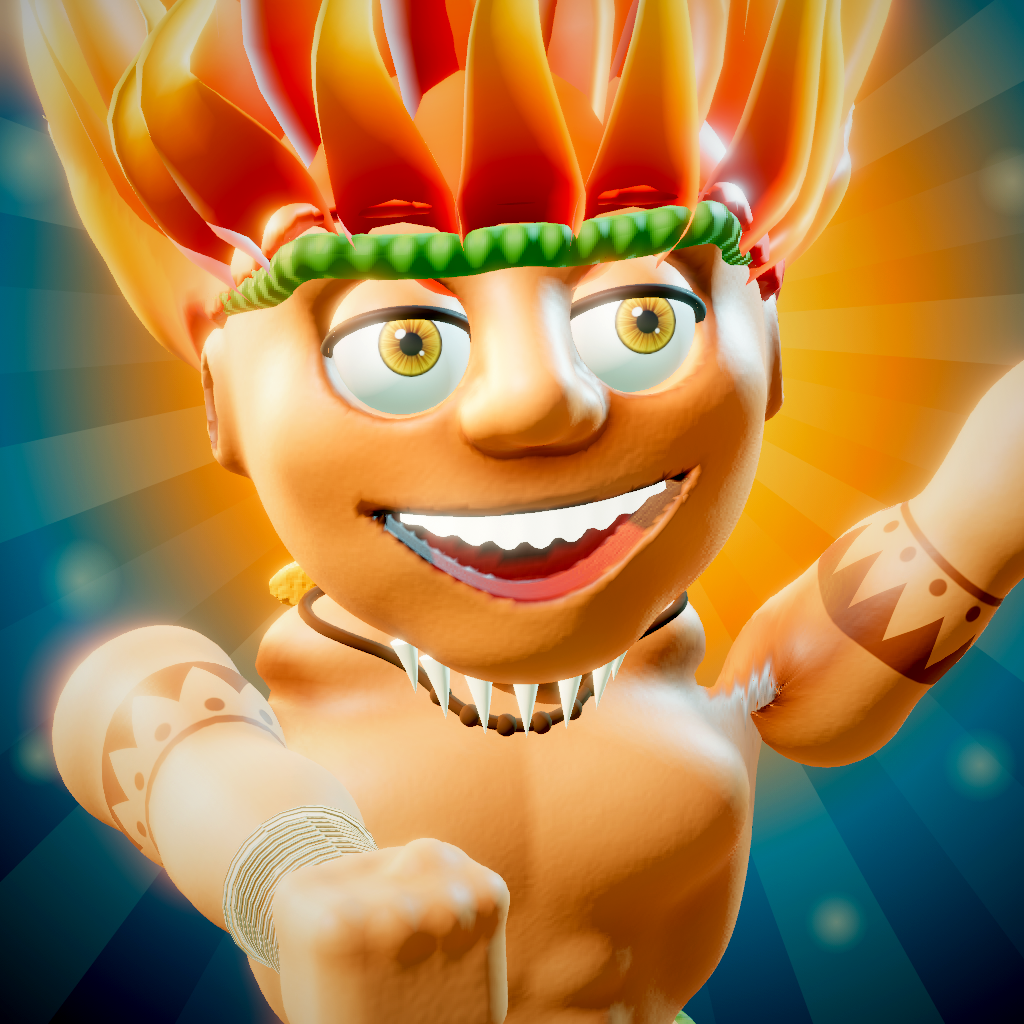
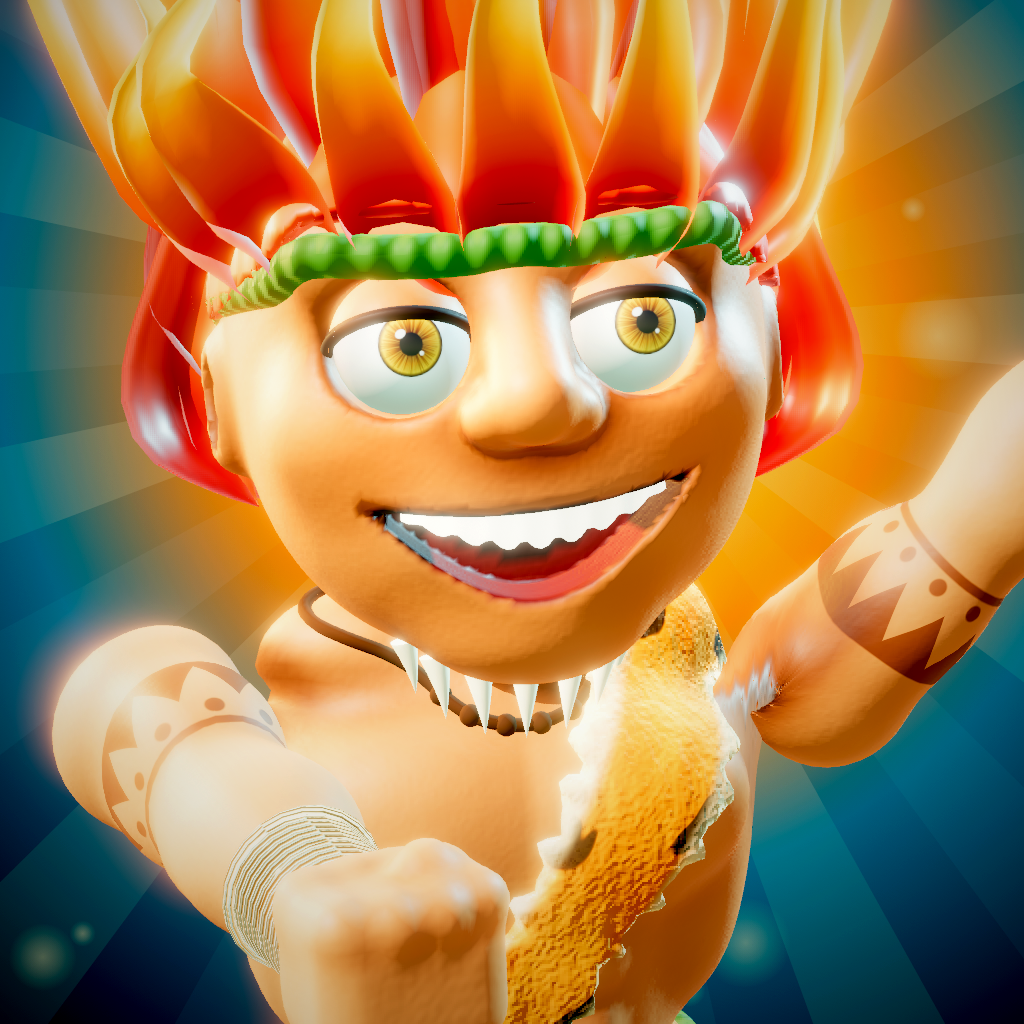
Release-quality back view: swept flame mane, pelt sash, back tattoo, wagging tail
Claude-Session: https://claude.ai/code/session_01U6DtojpPu3Br5W6bvaSbNr

diff --git a/index.html b/index.html
@@ -671,7 +671,7 @@ const glow=new Glow(1400), parts=new Parts(1600);
 
 /* ================= HERO SCULPT CACHE ================= */
 // Gao is sculpted from distance fields on first launch; the finished meshes are kept in IndexedDB so later launches start instantly.
-const HVER='gao-4';
+const HVER='gao-5';
 function heroDB(){return new Promise(res=>{try{const r=indexedDB.open('wildswing3d',1);r.onupgradeneeded=()=>r.result.createObjectStore('c');r.onsuccess=()=>res(r.result);r.onerror=()=>res(null);r.onblocked=()=>res(null)}catch(e){res(null)}})}
 async function heroCacheLoad(){try{const db=await Promise.race([heroDB(),new Promise(r=>setTimeout(()=>r(null),1200))]);if(!db)return null;
   return await new Promise(res=>{try{const q=db.transaction('c','readonly').objectStore('c').get(HVER);q.onsuccess=()=>res(q.result||null);q.onerror=()=>res(null)}catch(e){res(null)}})}catch(e){return null}}
@@ -746,16 +746,16 @@ const hero=(()=>{
  float vn3(vec3 x){vec3 i=floor(x),f=fract(x);f=f*f*(3.-2.*f);return mix(mix(mix(hh3(i),hh3(i+vec3(1,0,0)),f.x),mix(hh3(i+vec3(0,1,0)),hh3(i+vec3(1,1,0)),f.x),f.y),mix(mix(hh3(i+vec3(0,0,1)),hh3(i+vec3(1,0,1)),f.x),mix(hh3(i+vec3(0,1,1)),hh3(i+vec3(1,1,1)),f.x),f.y),f.z);}
  vec3 pnA(vec3 sp,vec3 n,vec2 dh,float fd){vec3 sx=dFdx(sp),sy=dFdy(sp),r1=cross(sy,n),r2=cross(n,sx);float det=dot(sx,r1)*fd;vec3 g=sign(det)*(dh.x*r1+dh.y*r2);return normalize(abs(det)*n-g);}`;
  // Shared hero shading: wrap-lit "subsurface" warmth, a rim light so Gao reads against any sky, optional procedural detail per material
- const heroT={value:0};
+ const heroT={value:0},heroFill={value:.16};
  function heroMat(o,opt={}){const m=new (opt.phys?T3.MeshPhysicalMaterial:T3.MeshStandardMaterial)(o);m.envMapIntensity=opt.env??.6;
   const rim=opt.rim||[1,.8,.6],rs=opt.rs??.45,sss=opt.sss||[0,0,0];
-  m.onBeforeCompile=sh=>{sh.uniforms.rimC={value:new T3.Color(...rim)};sh.uniforms.rimS={value:rs};sh.uniforms.sssC={value:new T3.Color(...sss)};sh.uniforms.glow={value:0};sh.uniforms.uT=heroT;m.userData.sh=sh;
+  m.onBeforeCompile=sh=>{sh.uniforms.rimC={value:new T3.Color(...rim)};sh.uniforms.rimS={value:rs};sh.uniforms.sssC={value:new T3.Color(...sss)};sh.uniforms.glow={value:0};sh.uniforms.uT=heroT;sh.uniforms.fillK=heroFill;m.userData.sh=sh;
    sh.vertexShader=sh.vertexShader.replace('#include <common>','#include <common>\nuniform float uT;varying vec3 vOp;'+(opt.aux?'attribute vec4 aux;varying vec4 vAux;':''))
     .replace('#include <begin_vertex>','#include <begin_vertex>\nvOp=position;'+(opt.aux?'vAux=aux;':'')+(opt.vtx||''));
-   sh.fragmentShader=sh.fragmentShader.replace('#include <common>','#include <common>\nuniform vec3 rimC,sssC;uniform float rimS,glow;varying vec3 vOp;'+(opt.aux?'varying vec4 vAux;':'')+GLN+(opt.fdecl||''))
+   sh.fragmentShader=sh.fragmentShader.replace('#include <common>','#include <common>\nuniform vec3 rimC,sssC;uniform float rimS,glow,fillK;varying vec3 vOp;'+(opt.aux?'varying vec4 vAux;':'')+GLN+(opt.fdecl||''))
     .replace('#include <color_fragment>','#include <color_fragment>\n'+(opt.frag||''))
     .replace('#include <normal_fragment_maps>','#include <normal_fragment_maps>\n'+(opt.nrm||''))
-    .replace('#include <emissivemap_fragment>','#include <emissivemap_fragment>\n{vec3 V=normalize(vViewPosition);float ndv=clamp(dot(normal,V),0.,1.);float rimF=pow(1.-ndv,3.);totalEmissiveRadiance+=rimC*rimF*rimS*diffuseColor.rgb+sssC*diffuseColor.rgb*(.35+.65*pow(1.-ndv,1.5));}'+(opt.emi||''))};
+    .replace('#include <emissivemap_fragment>','#include <emissivemap_fragment>\n{vec3 V=normalize(vViewPosition);float ndv=clamp(dot(normal,V),0.,1.);float rimF=pow(1.-ndv,3.);totalEmissiveRadiance+=rimC*rimF*rimS*diffuseColor.rgb+sssC*diffuseColor.rgb*(.35+.65*pow(1.-ndv,1.5))+diffuseColor.rgb*fillK*vec3(1.,.93,.85)*(.25+.75*ndv*ndv);}'+(opt.emi||''))};
   m.customProgramCacheKey=()=>'hero'+(opt.key||'');return m}
 
  // ---------- skeleton (same joints the animation code drives) ----------
@@ -856,7 +856,12 @@ const hero=(()=>{
    float l1=1.-smoothstep(.007,.007+aa,abs(v+.185)),l2=1.-smoothstep(.005,.005+aa,abs(v+.34));float fu=fract(u*10.);
    float tri=smoothstep(-.2-.085*(1.-2.*abs(fu-.5))-aa,-.2-.085*(1.-2.*abs(fu-.5)),v)*step(v,-.19);
    float dots=1.-smoothstep(.011,.011+aa,length(vec2((fract(u*10.+.5)-.5)*.075,v+.312)));return clamp(l1+l2+tri+dots,0.,1.)*smoothstep(.6,1.,a.w);}`,
-  frag:`{float t=tat(vAux);diffuseColor.rgb=mix(diffuseColor.rgb,diffuseColor.rgb*vec3(.28,.2,.18),t*.92);}`,
+  frag:`{float t=tat(vAux);
+   if(vOp.z<-.12&&abs(vOp.x)<.3){vec2 q=vec2(vOp.x,(vOp.y-.64)*1.08);float r=length(q),an=atan(q.x,q.y),aa=.004;float k=abs(fract(an/6.2831853*9.+.5)-.5)*2.;
+    float ray=smoothstep(.085-aa,.085,r)*(1.-smoothstep(.085+.13*(1.-k)*(1.-k)-aa,.085+.13*(1.-k)*(1.-k),r));float ring=1.-smoothstep(.009,.009+aa,abs(r-.062));float dot0=1.-smoothstep(.028,.028+aa,r);
+    float fl=0.;{vec2 f=vec2(abs(q.x),q.y+.21);fl=(1.-smoothstep(.0,aa,abs(f.x-.04*sin(f.y*20.))-.012*(1.-f.y*4.)))*step(0.,f.y)*step(f.y,.2);}
+    t=max(t,clamp(ray+ring+dot0+fl*0.,0.,1.)*smoothstep(-.12,-.18,vOp.z));}
+   diffuseColor.rgb=mix(diffuseColor.rgb,diffuseColor.rgb*vec3(.28,.2,.18),t*.92);}`,
   nrm:`{float n1=vn3(vOp*140.),n2=vn3(vOp*38.);vec2 dh=vec2(dFdx(n1*.00022+n2*.0006),dFdy(n1*.00022+n2*.0006));normal=pnA(-vViewPosition,normal,dh,faceDirection);}`};
  const skin=heroMat({color:0xffffff,vertexColors:true,roughness:.55,metalness:0},skinOpt);
  const skinRigid=heroMat({color:0xffffff,vertexColors:true,roughness:.52,metalness:0},Object.assign({},skinOpt,{aux:false,key:'skinR',fdecl:'',frag:''}));
@@ -864,7 +869,10 @@ const hero=(()=>{
   fdecl:`vec3 pelt(vec3 p){float n=vn3(p*6.)*.7+vn3(p*17.)*.3;float s=sin(p.y*17.+n*1.7+sin(p.x*4.)*1.1+abs(p.x)*4.);float side=smoothstep(.04,.36,abs(p.x)+.12*n);
    float st=smoothstep(.62,.74,s-(1.-side)*.8+.1*vn3(p*31.));
    vec3 base=mix(vec3(.93,.42,.07),vec3(.99,.6,.18),vn3(p*9.)*.8);base=mix(base,vec3(.98,.84,.62),smoothstep(.62,.95,vn3(p*2.5+7.))*.25);return pow(mix(base,vec3(.1,.05,.03),st),vec3(2.2));}`,
-  frag:cape?``:`diffuseColor.rgb=pelt(vOp*vec3(1.,1.,1.))*(.55+.45*vColor.r);`,
+  frag:cape?``:`{vec3 p=vOp;float n=vn3(p*7.)*.7+vn3(p*19.)*.3;float an=atan(p.x,p.z+.02);
+   float s=sin(an*8.+p.y*5.+n*1.6+sin(p.y*9.)*.35);float w=.16+.1*vn3(p*4.+3.);float st=smoothstep(1.-w,1.-w+.06,s)*smoothstep(-.62,-.1,p.y*1.2+.1*n)+smoothstep(.72,.8,sin(an*8.+p.y*5.+2.1+n*1.4))*.0;
+   vec3 base=mix(vec3(.93,.42,.07),vec3(.99,.6,.18),vn3(p*9.)*.8);base=mix(base,vec3(.98,.84,.62),smoothstep(.62,.95,vn3(p*2.5+7.))*.22);
+   diffuseColor.rgb=pow(mix(base,vec3(.1,.05,.03),st),vec3(2.2))*(.55+.45*vColor.r);}`,
   nrm:`{float f=vn3(vOp*vec3(60.,18.,60.))*.6+vn3(vOp*150.)*.4;vec2 dh=vec2(dFdx(f),dFdy(f))*.006;normal=pnA(-vViewPosition,normal,dh,faceDirection);}`});
  const shortsM=heroMat({color:0xffffff,vertexColors:true,roughness:.9,sheen:.5,sheenRoughness:.5,sheenColor:new T3.Color(1,.55,.2)},Object.assign(peltOpt('shorts'),{phys:true}));
  const bone=heroMat({color:0xf3e6c8,roughness:.32,metalness:0,clearcoat:.4},{phys:true,rim:[1,.95,.85],rs:.3,sss:[.18,.14,.08],key:'bone'});
@@ -937,16 +945,17 @@ const hero=(()=>{
  // ---------- flame mane ----------
  const hairM=heroMat({vertexColors:true,roughness:.42,metalness:0,emissive:0xffffff,emissiveIntensity:.35},{rim:[1,.7,.3],rs:.5,sss:[.3,.08,0],env:.5,key:'hair',
   // flames never sit still: the further from the skull, the more the tongues sway and lick upward
+  nrm:`{float f=sin(atan(vOp.x,vOp.z+.03)*36.+vOp.y*2.5)*.6+vn3(vOp*vec3(40.,8.,40.))*.4;vec2 dh=vec2(dFdx(f),dFdy(f))*.0028;normal=pnA(-vViewPosition,normal,dh,faceDirection);}`,
   vtx:`{float hg=max(0.,length(position-vec3(0.,.05,-.03))-.48);transformed+=vec3(sin(uT*6.+position.y*5.+position.x*3.),.6*sin(uT*7.3+position.z*4.+position.x*2.),cos(uT*5.2+position.y*4.+position.z*3.))*.04*hg;}`,
   emi:`totalEmissiveRadiance+=diffuseColor.rgb*diffuseColor.rgb*diffuseColor.g*emissive.r*.85-emissive;`});
  const HC=[[.5,.08,.02],[.86,.2,.03],[1,.45,.06],[1,.68,.16],[1,.9,.5]].map(lin);
  const hcol=t=>{const x=Math.min(3.999,t*4),i=x|0,f=x-i;return HC[i].map((c,k)=>c+(HC[i+1][k]-c)*f)};
- function clump(pts,r0,flat=.5,segs=18,rad=10,twist=0,cm=1){const cv=new T3.CatmullRomCurve3(pts.map(p=>new V3(...p)),false,'centripetal');const fr=cv.computeFrenetFrames(segs,false);
+ function clump(pts,r0,flat=.5,segs=18,rad=10,twist=0,cm=1,ge=.85,tin=0){const cv=new T3.CatmullRomCurve3(pts.map(p=>new V3(...p)),false,'centripetal');const fr=cv.computeFrenetFrames(segs,false);
   const pos=[],col=[],idx=[];const up=new V3(),side=new V3(),T=new V3();
   for(let i=0;i<=segs;i++){const t=i/segs,P=cv.getPointAt(t);cv.getTangentAt(t,T);
    // width axis = perpendicular to the strand and to the head centre direction, so clumps lie flat like locks of hair
    side.copy(P).normalize().cross(T).normalize();up.crossVectors(T,side).normalize();
-   const r=r0*(t<.18?.75+t/.18*.25:Math.pow((1-t)/.82,1.15))+.0015,c=hcol(Math.pow(t,.85)*cm);
+   const r=r0*(t<.18?.75+t/.18*.25:Math.pow((1-t)/.82,1.15))*(tin?Math.min(1,Math.pow(t/tin,.7)):1)+.0015,c=hcol(Math.pow(t,ge)*cm);
    for(let j=0;j<=rad;j++){const a=j/rad*TAU+twist*t;const cw=Math.cos(a)*r,ch=Math.sin(a)*r*flat;pos.push(P.x+side.x*cw+up.x*ch,P.y+side.y*cw+up.y*ch,P.z+side.z*cw+up.z*ch);col.push(...c)}}
   for(let i=0;i<segs;i++)for(let j=0;j<rad;j++){const a=i*(rad+1)+j,b=a+rad+1;idx.push(a,b,a+1,b,b+1,a+1)}
   const g=new T3.BufferGeometry();g.setAttribute('position',new T3.Float32BufferAttribute(pos,3));g.setAttribute('color',new T3.Float32BufferAttribute(col,3));g.setIndex(idx);g.computeVertexNormals();return g}
@@ -967,12 +976,6 @@ const hero=(()=>{
    rec.push(a.x,a.y,a.z,ax.x,ax.y,ax.z,w.x,w.y,w.z,t.x,t.y,t.z,L,r0,r1)}
   const c=p0.clone().add(p1).add(p2).multiplyScalar(1/3);const R=Math.max(c.distanceTo(p0),c.distanceTo(p2))+rb+.05;const l1=p0.distanceTo(p1),l2=p1.distanceTo(p2);
   rec.push(c.x,c.y,c.z,R,l1/(l1+l2),flat);SPK.push(rec)};
- // the back of the mane is a torch: layered tongues that rise up and lean back, flaring out at the sides
- for(let k=0;k<6;k++){const u=k/5-.5;spike(Math.PI+u*2.2,.78,1.12-Math.abs(u)*.25,.19,1.2,.65,.35*u,.12)}
- for(let k=0;k<7;k++){const u=k/6-.5;spike(Math.PI+u*3.,.4,1.0-Math.abs(u)*.22,.2,1.0,.72,.6*u,.25)}
- for(let k=0;k<5;k++){const u=k/4-.5;spike(Math.PI+u*2.3,.02,.78-Math.abs(u)*.1,.18,.65,.8,.55*u,.45)}
- for(const s of [-1,1])for(const [el,l] of [[.5,.8],[.15,.62]])spike(s*(Math.PI/2+.35),el,l,.15,.95,.55,.55)
- for(let k=0;k<4;k++){const u=k/3-.5;spike(Math.PI+u*1.5,-.32,.5,.15,.5,.8,.5*u,.5)}
  // front of the mane (crown, top and bangs): tapered flame locks, which read best face-on and in the icon
  {const locks=[];
   for(let k=0;k<7;k++){const u=(k/6-.5);locks.push({az:u*1.5,el:1.05-Math.abs(u)*.4,len:.95-Math.abs(u)*.35,r:.13,flat:.45,up:1.25,back:.8})}
@@ -986,6 +989,25 @@ const hero=(()=>{
    const d2=dir.clone().addScaledVector(upv,.35).addScaledVector(back,.25).normalize();
    const p3=p2.clone().addScaledVector(d2,len*.3).add(new V3(-wob*1.4,0,0)),p4=p3.clone().addScaledVector(d2,len*.22).add(new V3(wob*.8,.06*len,-.04*len));
    add(clump([[p0.x,p0.y,p0.z],[p1.x,p1.y,p1.z],[p2.x,p2.y,p2.z],[p3.x,p3.y,p3.z],[p4.x,p4.y,p4.z]],L.r*(.9+hr()*.2),L.flat,20,10,(hr()-.5)*1.2),hairM,hair)}}
+ // back of the mane: tall layered flame tongues that leave the skull, sweep back, then lick straight up
+ function tongue(az,el,len,r,spread,curl,cm=1){const dx=Math.sin(az)*Math.cos(el),dy=Math.sin(el),dz=Math.cos(az)*Math.cos(el);const n=new V3(dx,dy,dz);
+  const out=new V3(dx,0,dz).normalize(),up=new V3(0,1,0),bk=new V3(0,0,-1);const p0=scalp(dx,dy,dz).multiplyScalar(.97);
+  const p1=p0.clone().addScaledVector(n,.1).addScaledVector(out,spread*.04);
+  const p2=p1.clone().addScaledVector(n.clone().multiplyScalar(.45).addScaledVector(bk,.55).addScaledVector(up,.3).addScaledVector(out,spread*.4).normalize(),len*.26);
+  const p3=p2.clone().addScaledVector(up.clone().addScaledVector(bk,.32).addScaledVector(out,spread*.3).normalize(),len*.32);
+  const p4=p3.clone().addScaledVector(up.clone().addScaledVector(bk,.08-curl).addScaledVector(out,spread*.14).normalize(),len*.26);
+  const p5=p4.clone().addScaledVector(up.clone().multiplyScalar(.8).addScaledVector(bk,-curl*1.6).addScaledVector(out,spread*.05).normalize(),len*.16);
+  add(clump([p0,p1,p2,p3,p4,p5].map(p=>[p.x,p.y,p.z]),r,.36,26,12,(hr()-.5)*.5,cm),hairM,hair)}
+ // swept-up locks: they start low on the back of the skull, hug it on the way up (so the back of the head is all hair), then leave it and rise as flames
+ function sweep(az,e0,e1,rise,r,spread,curl,cm=1,lift=1){const pts=[];const at=e=>{const dx=Math.sin(az)*Math.cos(e),dy=Math.sin(e),dz=Math.cos(az)*Math.cos(e);return scalp(dx,dy,dz).addScaledVector(new V3(dx,dy,dz),lift*(.035+.07*Math.max(0,(e-e0)/(e1-e0+1e-3))))};
+  for(let k=0;k<4;k++)pts.push(at(e0+(e1-e0)*k/3));const top=pts[3],n=top.clone().normalize(),out=new V3(Math.sin(az),0,Math.cos(az)).normalize(),up=new V3(0,1,0),bk=new V3(0,0,-1);
+  const q1=top.clone().addScaledVector(n.clone().multiplyScalar(.5).add(up).addScaledVector(bk,.35).addScaledVector(out,spread*.25).normalize(),rise*.36);
+  const q2=q1.clone().addScaledVector(up.clone().addScaledVector(bk,.12-curl*.5).addScaledVector(out,spread*.14).normalize(),rise*.34);
+  const q3=q2.clone().addScaledVector(up.clone().multiplyScalar(.8).addScaledVector(bk,-curl*1.4).addScaledVector(out,spread*.05).normalize(),rise*.3);
+  pts.push(q1,q2,q3);add(clump(pts.map(p=>[p.x,p.y,p.z]),r,.46,30,12,(hr()-.5)*.35,cm,1.7,.14),hairM,hair)}
+ for(const [e0,e1,n,span,rise,r,off] of [[-.5,.72,7,3.0,.62,.17,0],[-.05,.95,6,2.4,.86,.19,.5],[.4,1.18,4,1.5,.98,.19,0]])
+  for(let k=0;k<n;k++){const u=(k+(k<n-1?off:0))/(n-1)-.5;sweep(Math.PI+u*span,e0+(hr()-.5)*.05-(k%2)*.07,e1+(hr()-.5)*.08,rise*(1-Math.abs(u)*.45)*(.9+hr()*.2),r*(1-Math.abs(u)*.2),u*1.6,.06+hr()*.12,.97,k%2?1.35:1)}
+ for(const s2 of [-1,1])for(const [el,len] of [[.5,.7],[.12,.55]])tongue(s2*(Math.PI/2+.45),el,len,.15,s2*.8,.1,.95);
  const NS=SPK.length,STR=36,ST=new Float64Array(NS*STR);SPK.forEach((r,i)=>ST.set(r,i*STR));
  const segD=(x,y,z,o,Kf)=>{const qx=x-ST[o],qy=y-ST[o+1],qz=z-ST[o+2];const X=qx*ST[o+3]+qy*ST[o+4]+qz*ST[o+5],Y=qx*ST[o+6]+qy*ST[o+7]+qz*ST[o+8],Z=(qx*ST[o+9]+qy*ST[o+10]+qz*ST[o+11])*Kf;
   return rcone(X,Y,Z,0,0,0,ST[o+12],0,0,ST[o+13],ST[o+14])/Kf};
@@ -1047,7 +1069,7 @@ const hero=(()=>{
    diffuseColor.rgb=gl_FrontFacing?c*.4+vec3(.05,.03,.015):c;}`}));
  capeM.onBeforeCompile=(f=>sh=>{f(sh);sh.vertexShader=sh.vertexShader.replace('#include <common>','#include <common>\nvarying vec2 vUv2;').replace('#include <begin_vertex>','#include <begin_vertex>\nvUv2=uv;');
   sh.fragmentShader=sh.fragmentShader.replace('#include <common>','#include <common>\nvarying vec2 vUv2;')})(capeM.onBeforeCompile);
- const cape=new T3.Mesh(capeGeo,capeM);cape.castShadow=true;cape.frustumCulled=false;const capeP=new T3.Group();capeP.position.set(0,.98,-.3);capeP.add(cape);body.add(capeP);
+ const cape=new T3.Mesh(capeGeo,capeM);cape.visible=false;cape.castShadow=true;cape.frustumCulled=false;const capeP=new T3.Group();capeP.position.set(0,.98,-.3);capeP.add(cape);body.add(capeP);
  // ---------- tiger tail: a furred, striped tube rebuilt every frame so it sways and streams in the wind ----------
  const TS=26,TR=10,tailG=new T3.BufferGeometry(),tPos=new Float32Array((TS+1)*(TR+1)*3),tCol=new Float32Array((TS+1)*(TR+1)*3),tIdx=[];
  for(let i=0;i<=TS;i++){const t=i/TS;const stripe=(t>.08&&(t*7.5)%1<.34)||t>.9;const c=stripe?lin([.12,.06,.03]):t<.1?lin([.9,.5,.14]):lin([.97,.52,.12]);for(let j=0;j<=TR;j++){const o=(i*(TR+1)+j)*3;tCol[o]=c[0];tCol[o+1]=c[1];tCol[o+2]=c[2]}}
@@ -1058,10 +1080,12 @@ const hero=(()=>{
  const tail=new T3.Mesh(tailG,tailM);tail.castShadow=true;tail.frustumCulled=false;body.add(tail);
  const TA=onSurf(shortsF,0,.02,0,0,0,-1,-.02);const tp=[],tb=new V3(),tn=new V3(),tt=new V3();for(let i=0;i<=TS;i++)tp.push(new V3());
  function tailUpdate(time,spd,air){const lift=Math.min(1,spd/28);
-  for(let i=0;i<=TS;i++){const s=i/TS,L=.95*s;const sw=Math.sin(time*3.1-s*2.6)*(.1+.1*s)*s;
-   tp[i].set(TA.x+sw,TA.y-L*(.62-.45*lift)+s*s*s*(.42+.2*lift)+Math.sin(time*2.3-s*3)*.03*s,TA.z-L*(.45+.45*lift)-s*s*.12)}
+  // S-curve: out and down from the pelt, then curling up; it wags slowly side to side and streams back with speed
+  const wag=Math.sin(time*1.15)*.85+Math.sin(time*2.9)*.15;
+  for(let i=0;i<=TS;i++){const s=i/TS,rip=Math.sin(time*3.4-s*3.2)*.07*s;
+   tp[i].set(TA.x+wag*(.3*Math.pow(s,1.4))+rip,TA.y-.66*s+(.66+.3*lift)*Math.pow(s,2.6)+Math.sin(time*2.3-s*3)*.03*s,TA.z-(.18+.55*lift)*s-.1*s*s)}
   for(let i=0;i<=TS;i++){const a=tp[Math.max(0,i-1)],b=tp[Math.min(TS,i+1)];tt.subVectors(b,a).normalize();tb.set(1,0,0).addScaledVector(tt,-tt.x).normalize();tn.crossVectors(tt,tb);
-   const s=i/TS,r=(.052-.03*s)*(s>.9?1+(s-.9)*4:1)*(i===TS?.2:1);
+   const s=i/TS,r=(.074-.036*s)*(s>.86?1+(s-.86)*3.2:1)*(i===TS?.25:1);
    for(let j=0;j<=TR;j++){const an=j/TR*TAU,cx=Math.cos(an)*r,cy=Math.sin(an)*r,o=(i*(TR+1)+j)*3;tPos[o]=tp[i].x+tb.x*cx+tn.x*cy;tPos[o+1]=tp[i].y+tb.y*cx+tn.y*cy;tPos[o+2]=tp[i].z+tb.z*cx+tn.z*cy}}
   tailG.attributes.position.needsUpdate=true;tailG.computeVertexNormals()}
  tailUpdate(0,0,false);
@@ -1071,11 +1095,18 @@ const hero=(()=>{
    pa.setXYZ(i,x*(1+t*.16),y+t*up,x*x*.75*(1-t*.5)-Math.pow(t,1.2)*fl+.03*Math.sin(x*17+1.3)*t*calm+Math.sin(time*11+t*5+x*3)*.07*t*(.4+spd*.03))}
   pa.needsUpdate=true;if((capeN++&3)===0)capeGeo.computeVertexNormals()}
  capeUpdate(0,0);
- // fur mantle over the shoulders where the cape hangs
- {const fm=heroMat({color:0xffffff,vertexColors:true,roughness:.9,sheen:.5,sheenRoughness:.5,sheenColor:new T3.Color(1,.55,.2)},Object.assign(peltOpt('mantle'),{phys:true}));
-  const f=(x,y,z)=>{const r=Math.hypot(x/1.28,z+.05)-.29;return Math.max(Math.hypot(r,(y-.95)*1.5)-.06-.01*Math.sin(Math.atan2(x,z+.05)*16),z+.14+.3*Math.abs(x))};
-  const M=cache('mantle',()=>pack(SDF.mesh(f,[-.5,.8,-.46],[.5,1.06,.36],.016)));add(G(M,{color:[new Float32Array(M.P.length).fill(.9),3]}),fm,body)}
-
+ // tiger-pelt sash: over the left shoulder, across the back and chest to the right hip, with a ragged furred edge
+ const SD=new V3(-.5,-.86,0).normalize(),SN=new V3(.86,-.5,0).normalize(),SO=new V3(.3,.95,0);
+ function sashF(x,y,z){parts(x,y,z);const qx=x-SO.x,qy=y-SO.y,al=qx*SD.x+qy*SD.y,ac=qx*SN.x+qy*SN.y;
+  const jag=.012*Math.sin(al*70+z*20)+.008*Math.sin(al*131);const band=Math.abs(ac)-(.1+.018*Math.sin(al*9)+jag);
+  let d=smin(gd[0],gd[1],.07)-.036;d=Math.max(d,band);return Math.max(d,-(al+.08),al-1.08)}
+ const SH=cache('sash',()=>{const m=SDF.mesh(sashF,[-.6,-.25,-.45],[.75,1.12,.45],.018);const {si,sw}=weights(m.P);return pack(m,{col:colorize(sashF,m,(x,y,z,a)=>[.4+.6*a,0,0]),si,sw})});
+ const sashM=heroMat({color:0xffffff,vertexColors:true,roughness:.9,sheen:.55,sheenRoughness:.45,sheenColor:new T3.Color(1,.6,.25)},Object.assign(peltOpt('sash'),{phys:true,
+  frag:`{vec2 d=normalize(vec2(-.5,-.86)),nn=vec2(d.y*-1.,d.x);vec2 q=vOp.xy-vec2(.3,.95);float al=dot(q,d),ac=dot(q,vec2(.86,-.5));
+   diffuseColor.rgb=pelt(vec3(ac*3.2,al*1.15,vOp.z))*(.55+.45*vColor.r);float edge=smoothstep(.07,.1,abs(ac));diffuseColor.rgb=mix(diffuseColor.rgb,pow(vec3(.99,.86,.66),vec3(2.2))*(.6+.4*vColor.r),edge*.8);}`}));
+ const sashMesh=add(G(SH,{color:[SH.col,3],skinIndex:[SH.si,4,T3.Uint16BufferAttribute],skinWeight:[SH.sw,4]}),sashM,body,true);sashMesh.bind(skeleton);
+ // bone toggle where the sash meets at the hip
+ {const k=add(new T3.TorusGeometry(.045,.016,10,24),bone,body);k.position.copy(onSurf(sashF,-.22,.2,0,0,0,1,.02));k.rotation.set(.2,.3,0)}
  lap('props');
  for(const m of all)m.receiveShadow=false;
  root.scale.setScalar(.95);
